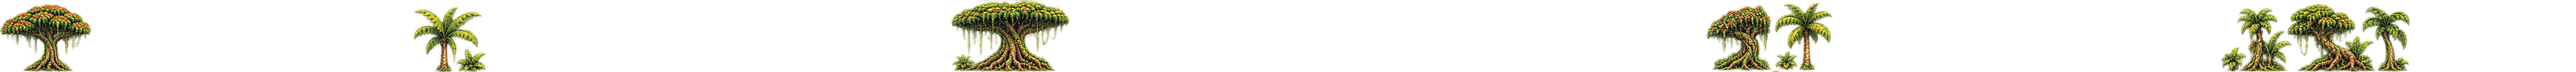
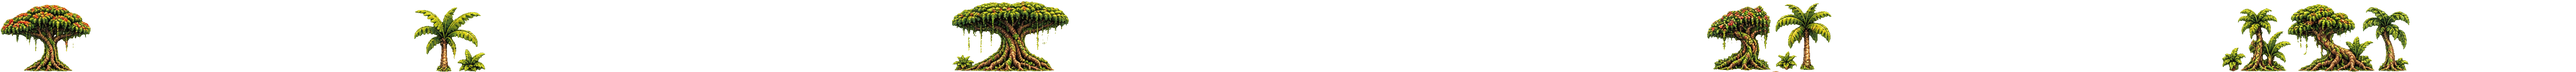
Area-themed stop names; jungle foreground trees step aside at stops and signposts, with solid edges
Claude-Session: https://claude.ai/code/session_01MtQBiqbKCuzkutaTWsEgBr

diff --git a/src/config/balance.js b/src/config/balance.js
@@ -172,6 +172,55 @@ export const POI_TYPES = {
   },
 };
 
+/**
+ * Place names for stops in each area, by POI type (areas or types not listed use the names in
+ * POI_TYPES above, which suit the meadows).
+ */
+export const STOP_NAMES = {
+  desert: {
+    coalDepot: ['Dustbowl Bunkers', 'Scorch Siding', 'Cinderflat Yard'],
+    town: ['Mirage Wells', 'Sandhollow', 'Red Mesa', 'Oasis Junction', 'Dry Gulch'],
+    mine: ['Sunstone Dig', 'Rattlesnake Pit', 'Copper Butte Mine'],
+    workshop: ['Sandblast Works', 'Gearwind Forge'],
+    waterTower: ['Last Drop Tank', 'Cactus Spring', 'Dune Cistern'],
+  },
+  snow: {
+    coalDepot: ['Frostcoal Yard', 'Icebox Bunkers', 'Hearthstone Siding'],
+    town: ['Whitepeak', 'Frostholm', 'Pinecrest', 'Hollowfrost', 'Glacier Bay'],
+    mine: ['Rimeheart Mine', 'Crystal Hollow', 'Glacier Vein'],
+    workshop: ['Sleighbell Works', 'Thawforge'],
+    waterTower: ['Snowmelt Tank', 'Icicle Tower', 'Frostwell'],
+  },
+  jungle: {
+    coalDepot: ['Vinecoal Depot', 'Mossy Bunkers', 'Canopy Yard'],
+    town: ['Emerald Falls', 'Parrot Cove', 'Templeton', 'Vinewood', 'Monkey Bridge'],
+    mine: ['Idol’s Eye Mine', 'Jade Hollow', 'Serpent Cave'],
+    workshop: ['Rootbound Works', 'Tangleworks'],
+    waterTower: ['Rainfall Tank', 'Waterfall Halt', 'Monsoon Tower'],
+  },
+  marsh: {
+    coalDepot: ['Peat Cut Yard', 'Bogside Bunkers', 'Mudlark Siding'],
+    town: ['Mistmoor', 'Fenwick', 'Willowmere', 'Bogsworth', 'Reedby'],
+    mine: ['Sunken Shaft', 'Bogiron Pit', 'Murkwater Mine'],
+    workshop: ['Rustwater Works', 'Lantern Sheds'],
+    waterTower: ['Mill Wheel', 'Fen Pump', 'Reedwater Tank'],
+  },
+  coast: {
+    coalDepot: ['Harbour Coal Stage', 'Anchor Yard', 'Tidecoal Siding'],
+    town: ['Saltwind', 'Gullhaven', 'Port Mallow', 'Lighthouse Point', 'Crabbe Bay'],
+    mine: ['Seacliff Mine', 'Pearl Grotto', 'Smugglers’ Cave'],
+    workshop: ['Dockside Works', 'Shipwright Sheds'],
+    waterTower: ['Rainbarrel Tank', 'Cliffspring', 'Harbour Tower'],
+  },
+  town: {
+    coalDepot: ['Gasworks Sidings', 'Coalhouse Yard', 'Soot Lane'],
+    town: ['Brasswick Central', 'Kingsgate', 'Clocktower Square', 'Victoria Road', 'Foundry Row'],
+    mine: ['Underworks Mine', 'Sewer Shaft', 'Old Cellar Pit'],
+    workshop: ['Brasswick Foundry', 'Cogsworth & Co'],
+    waterTower: ['Waterworks', 'Pumphouse Halt', 'Reservoir Tower'],
+  },
+};
+
 /** The station you start each run from (uses the town building art). */
 export const START_STATION = {
   name: 'Rouge Central',

diff --git a/src/scenes/GameScene.js b/src/scenes/GameScene.js
@@ -132,6 +132,7 @@ export class GameScene extends Phaser.Scene {
     this.world.update(state.distance);
     this.train.update(motion.speed, px, time, state, BALANCE.train.maxSpeed);
     this.playMotionSounds(px);
+    this.updateForegroundTrees();
 
     if (this.phase === 'running') {
       this.updateTunnel();
@@ -180,8 +181,6 @@ export class GameScene extends Phaser.Scene {
     // of it, behind the rocks), so it's meadow before the mountain and desert after.
     const next = AREAS[(this.areaIndex + 1) % AREAS.length];
     const split = this.parallax.beginSplit(next, ['ground', 'railgrass', 'fog-front', 'foreground-back', 'foreground', 'foreground-trees']);
-    // Tall foreground trees would show the scenery switch above the rock bank, so they step aside.
-    this.parallax.fadeLayer('foreground-trees', 0, 500);
     this.tunnel = { at, parts, swapped: false, split, peakMid };
   }
 
@@ -214,12 +213,28 @@ export class GameScene extends Phaser.Scene {
       const left = this.cameras.main.worldView.x - 50;
       if (backX < left && frontX < left) {
         this.parallax.endSplit();
-        this.parallax.fadeLayer('foreground-trees', 1, 800);
         t.split = false;
       }
     }
     // Forget it once it has scrolled away (WorldLayer destroys the objects).
     if (t.swapped && !t.split && !t.parts.front.active && !t.parts.bank.active) this.tunnel = null;
+  }
+
+  /**
+   * Big trees that sweep past in front of the train (where an area has them) step aside near
+   * stops and signposts, so they never hide a building, and through tunnels, where they would
+   * show the scenery switching above the rock bank.
+   */
+  updateForegroundTrees() {
+    const d = this.state.distance;
+    const poi = this.route.poi;
+    if (poi) this.lastStopAt = poi.at;
+    const j = this.route.junction;
+    const near = (at, ahead, behind) => at != null && at - d < ahead && d - at < behind;
+    const hide = !!this.tunnel?.split || near(this.lastStopAt, 170, 150) || near(j?.at, 110, 60);
+    if (hide === this.treesHidden) return;
+    this.treesHidden = hide;
+    this.parallax.fadeLayer('foreground-trees', hide ? 0 : 1, hide ? 500 : 800);
   }
 
   /** God mode: head into the next area (a tunnel just ahead, or straight after the next stop). */

diff --git a/src/systems/RouteManager.js b/src/systems/RouteManager.js
@@ -1,3 +1,5 @@
+import { STOP_NAMES } from '../config/balance.js';
+
 /**
  * Plans the line ahead: after each stop, a junction with two signposted branches, then the
  * POI down whichever branch the points are set to.
@@ -31,6 +33,7 @@ export class RouteManager {
     // Pick which look each destination has now, so the signpost can show the real building.
     // (Using the area the stops will be in, which may differ from the current one after a tunnel.)
     this.junction.buildings = this.junction.options.map((type) => this.buildingFor(type, area));
+    this.junction.area = area;
     return this.junction;
   }
 
@@ -47,7 +50,7 @@ export class RouteManager {
     this.poi = {
       id: this.nextId++,
       type,
-      name: this.pick(def.names),
+      name: this.pick(STOP_NAMES[j.area?.id]?.[type] ?? def.names),
       building: j.buildings[j.selected],
       at: j.at + this.range(this.b.route.branchDistance),
       visited: false,
@@ -91,7 +94,9 @@ export class RouteManager {
 
   /** Re-picks the pending junction's buildings for an area (after going through a tunnel). */
   restyleJunction(area) {
-    if (this.junction) this.junction.buildings = this.junction.options.map((type) => this.buildingFor(type, area));
+    if (!this.junction) return;
+    this.junction.buildings = this.junction.options.map((type) => this.buildingFor(type, area));
+    this.junction.area = area;
   }
 
     pick(list) {

diff --git a/src/systems/ParallaxBackground.js b/src/systems/ParallaxBackground.js
@@ -153,6 +153,7 @@ export class ParallaxBackground {
     if (!layer) return;
     layer.alpha = alpha;
     const targets = [layer.obj, layer.fading?.obj].filter((o) => o?.active);
+    this.scene.tweens.killTweensOf(targets);
     this.scene.tweens.add({ targets, alpha, duration });
   }
 

diff --git a/scripts/slice-areas.py b/scripts/slice-areas.py
@@ -120,6 +120,13 @@ def fog(width, height, *, seed, wisps, opacity, colour=(206, 218, 210)):
     return out
 
 
+def solid(img, cut=150):
+    """Hard edges: each pixel fully opaque or gone (drops painted mist round sprites)."""
+    a = np.asarray(img).copy()
+    a[..., 3] = np.where(a[..., 3] >= cut, 255, 0)
+    return Image.fromarray(a)
+
+
 def drop_columns(img, ranges, blend=40):
     """Cuts out x ranges (e.g. fence posts), blending each join so it doesn't show."""
     keep, x = [], 0
@@ -217,8 +224,8 @@ AREAS = {
         'fg_drop': {'front': [(775, 862)], 'back': [(1495, 1995)]},  # wooden posts and fences
         # Big trees that sweep past in front of the train.
         'bank_over_rails': 8,  # the jungle bank's plants grow up in front of the track
-        'fgtrees': lambda: scatter(S('jungle-kit.png'), [(0, 290, 1774, 464)], 6144, (700, 1600), min_w=120,
-                                   keep=lambda p: p.height > 120, seed=4),
+        'fgtrees': lambda: solid(scatter(S('jungle-kit.png'), [(0, 290, 1774, 464)], 6144, (700, 1600), min_w=120,
+                                         keep=lambda p: p.height > 120, seed=4)),
         'stops': [
             ('jungle-stops.png', (0, 0, 2172, 268), {'waterTower': 0, 'workshop': 3}),
             ('jungle-stops.png', (0, 268, 2172, 500), {'town': 0, 'coalDepot': 6}),
